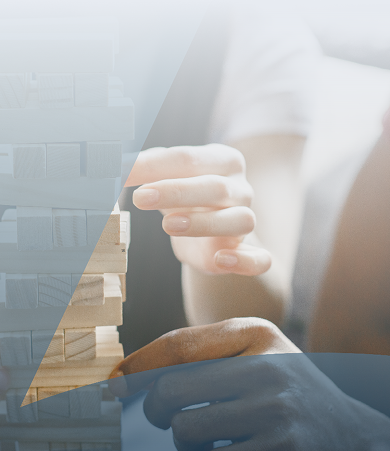
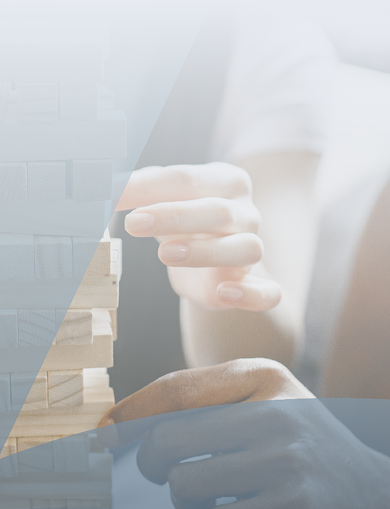
ajustes carrossel mobile

diff --git a/assets/css/less/page/hero.less b/assets/css/less/page/hero.less
@@ -101,45 +101,48 @@
     @media (max-width: @tablet) {
         
         .wrapper {
-            padding-top: 130px;
+            padding-top: 176px;
 
             .content {
 
                 .owl-carousel.owl-theme.hero__carousel {
 
                     .item {
-                        height: 606px;
+                        height: 645px;
                     }
                     
                     .content__carousel {
                         flex-direction: column;
                         text-align: center;
-                        justify-content: space-between;
+                        position: relative;
 
                         .image {
                             width: 100%;
-                            height: auto;
+                            position: absolute;
+                            z-index: 1;
+                            bottom: 0;
+                            left: 0;
                         }
 
                         .text {
-                            flex: 1 1 100% !important;
                             max-width: 100% !important;
                             width: 100%;
                             padding: 0 24px;
-                            font-size: 24px;
+                            font-size: 32px;
+                            position: relative;
+                            z-index: 2;
                         }
 
                         &.content-1 {
                             .text {
-                                margin-bottom: 42px;
+                                font-size: 32px;
                             }
                         }
 
-                        &.content-2 {  
-                            flex-direction: column-reverse;                            
+                        &.content-2 {                            
 
                             .text {                            
-                                font-size: 20px;
+                                font-size: 32px;
                                 width: 100%;
                                 padding: 0 24px; 
                             }                        
@@ -147,7 +150,7 @@
 
                          &.content-3 {  
                             .text {                                
-                                font-size: 20px;
+                                font-size: 32px;
                                 width: 100%;
                                 padding: 0 24px;
                             }

diff --git a/assets/css/main.css b/assets/css/main.css
@@ -464,7 +464,7 @@ nav {
 }
 @media (max-width: 900px) {
   .page__hero .wrapper {
-    padding-top: 130px;
+    padding-top: 176px;
   }
   .page__hero .wrapper .content {
     /*.description {
@@ -492,37 +492,38 @@ nav {
                 }*/
   }
   .page__hero .wrapper .content .owl-carousel.owl-theme.hero__carousel .item {
-    height: 606px;
+    height: 645px;
   }
   .page__hero .wrapper .content .owl-carousel.owl-theme.hero__carousel .content__carousel {
     flex-direction: column;
     text-align: center;
-    justify-content: space-between;
+    position: relative;
   }
   .page__hero .wrapper .content .owl-carousel.owl-theme.hero__carousel .content__carousel .image {
     width: 100%;
-    height: auto;
+    position: absolute;
+    z-index: 1;
+    bottom: 0;
+    left: 0;
   }
   .page__hero .wrapper .content .owl-carousel.owl-theme.hero__carousel .content__carousel .text {
-    flex: 1 1 100% !important;
     max-width: 100% !important;
     width: 100%;
     padding: 0 24px;
-    font-size: 24px;
+    font-size: 32px;
+    position: relative;
+    z-index: 2;
   }
   .page__hero .wrapper .content .owl-carousel.owl-theme.hero__carousel .content__carousel.content-1 .text {
-    margin-bottom: 42px;
-  }
-  .page__hero .wrapper .content .owl-carousel.owl-theme.hero__carousel .content__carousel.content-2 {
-    flex-direction: column-reverse;
+    font-size: 32px;
   }
   .page__hero .wrapper .content .owl-carousel.owl-theme.hero__carousel .content__carousel.content-2 .text {
-    font-size: 20px;
+    font-size: 32px;
     width: 100%;
     padding: 0 24px;
   }
   .page__hero .wrapper .content .owl-carousel.owl-theme.hero__carousel .content__carousel.content-3 .text {
-    font-size: 20px;
+    font-size: 32px;
     width: 100%;
     padding: 0 24px;
   }

diff --git a/index.html b/index.html
@@ -173,13 +173,13 @@
                                 <source media="(max-width: 767px)" srcset="assets/img/hero-bg-2-mobile.png">
                                 <img src="assets/img/hero-bg-2.png" class="image" alt="">
                             </picture>
-                            <p class="text">Somos movidos por desafios e ajudamos empresas a <span>destravar seu potencial</span>, construir <span>soluções estratégicas duradouras</span> e <span>acelerar seus resultados</span>, damos clareza para o caminho a ser percorrido com soluções práticas e exequíveis.
+                            <p class="text">Ajudamos empresas a <span>destravar seu potencial</span>, damos clareza para o caminho a ser percorrido com <span>soluções práticas e exequíveis</span>.
                             </p>
                         </div>                      
                     </div>
                     <div class="item">
                         <div class="content__carousel content-3">
-                            <p class="text">Trabalhamos <span>lado-a-lado</span> com nossos clientes integrando equipes, <span>ensinando, capacitando e criando conexões reais</span>, com <span>projetos personalizados e corresponsabilização pela entrega</span> dos objetivos acordados. </p>
+                            <p class="text">Trabalhamos <span>lado-a-lado</span> com nossos clientes, com <span>projetos personalizados e corresponsabilizacão da entrega.</span></p>
                             <picture>
                                 <source media="(max-width: 767px)" srcset="assets/img/hero-bg-3-mobile.png">
                                 <img src="assets/img/hero-bg-3.png" class="image" alt="">

diff --git a/assets/css/main.less b/assets/css/main.less
@@ -18,7 +18,7 @@
 @import 'less/page/team.less';  
 @import 'less/page/services.less';
 @import 'less/page/steps.less';                                                                                                 
-@import 'less/page/customers.less';                                                                           
+@import 'less/page/customers.less';                                                                            
 @import 'less/page/footer.less';                                                                
 @import 'less/page/theme.less';                                                                      
                                                             
